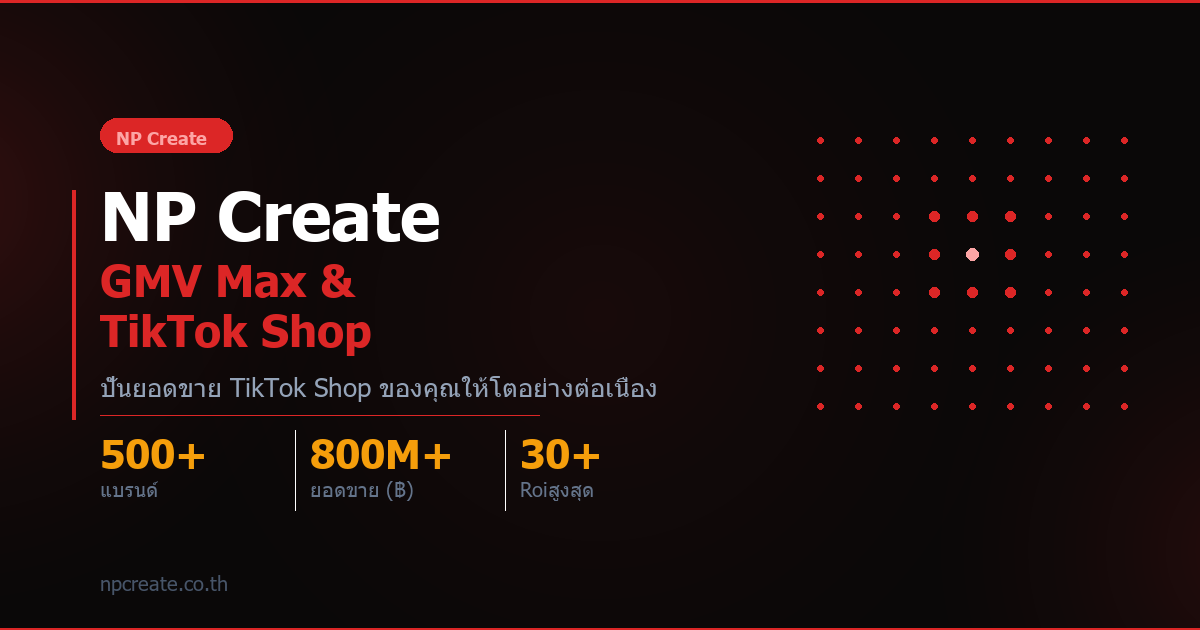
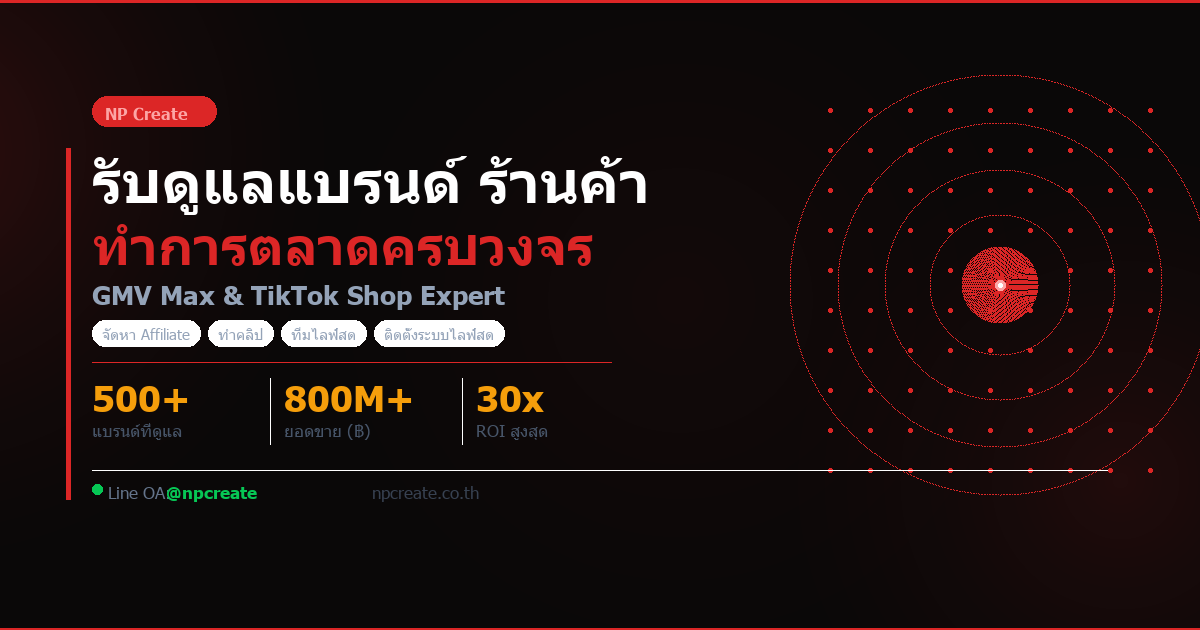
อัปเดต og-image: เพิ่ม service pills, Line OA, จัดวาง layout ใหม่

diff --git a/scripts/gen_og_image.py b/scripts/gen_og_image.py
@@ -17,19 +17,21 @@ def rgba(h, a=255):
 img = Image.new("RGBA", (W, H), rgb("#0A0808"))
 draw = ImageDraw.Draw(img, "RGBA")
 
-# ── Fonts (Tahoma supports Thai) ──────────────────────────────────────────────
 BD  = "C:/Windows/Fonts/tahomabd.ttf"
 REG = "C:/Windows/Fonts/tahoma.ttf"
 
-f_hero   = ImageFont.truetype(BD,  68)
-f_sub    = ImageFont.truetype(BD,  44)
-f_body   = ImageFont.truetype(REG, 26)
-f_stat_v = ImageFont.truetype(BD,  40)
-f_stat_l = ImageFont.truetype(REG, 20)
-f_badge  = ImageFont.truetype(BD,  18)
-f_domain = ImageFont.truetype(REG, 20)
+f_hero   = ImageFont.truetype(BD,  58)
+f_hero2  = ImageFont.truetype(BD,  52)
+f_tag    = ImageFont.truetype(BD,  26)
+f_body   = ImageFont.truetype(REG, 21)
+f_stat_v = ImageFont.truetype(BD,  36)
+f_stat_l = ImageFont.truetype(REG, 17)
+f_badge  = ImageFont.truetype(BD,  16)
+f_pill   = ImageFont.truetype(REG, 15)
+f_line   = ImageFont.truetype(BD,  17)
+f_domain = ImageFont.truetype(REG, 17)
 
-# ── Background radial orbs ────────────────────────────────────────────────────
+# ── Background orbs ───────────────────────────────────────────────────────────
 def orb(cx, cy, r, color_hex, peak=55):
     for px in range(max(0, cx-r), min(W, cx+r)):
         for py in range(max(0, cy-r), min(H, cy+r)):
@@ -46,83 +48,126 @@ def orb(cx, cy, r, color_hex, peak=55):
                     255
                 ))
 
-orb(-60,  200, 500, "#DC2626", 50)
-orb(1260, 550, 420, "#DC2626", 35)
-orb(600,  315, 600, "#DC2626", 18)
+orb(-80,  150, 510, "#DC2626", 46)
+orb(1120, 480, 440, "#DC2626", 28)
+orb(680,  300, 560, "#DC2626", 12)
 
 draw = ImageDraw.Draw(img, "RGBA")
 
 # ── Top & bottom gradient lines ───────────────────────────────────────────────
 for x in range(W):
-    g = math.exp(-((x/W - 0.5)**2) / (2*0.1**2))
-    draw.line([(x, 0), (x, 2)],   fill=(220, 38, 38, int(160*g)))
-    draw.line([(x, H-2), (x, H)], fill=(220, 38, 38, int(100*g)))
+    g = math.exp(-((x/W - 0.5)**2) / (2*0.12**2))
+    draw.line([(x, 0), (x, 2)],   fill=(220, 38, 38, int(180*g)))
+    draw.line([(x, H-2), (x, H)], fill=(220, 38, 38, int(90*g)))
 
-# ── Left red accent bar ───────────────────────────────────────────────────────
-for y in range(190, 420):
-    t = (y-190)/230
-    a = int(220 * math.sin(math.pi*t))
-    draw.line([(72, y), (75, y)], fill=(220, 38, 38, a))
+# ── Right decoration: rings + dot grid ───────────────────────────────────────
+cx_r, cy_r = 1000, 285
 
-# ── Right decorative pattern (dots, not big blocks) ──────────────────────────
-dot_x0, dot_y0 = 820, 140
-cols, rows, gap = 9, 8, 38
-for r in range(rows):
-    for c in range(cols):
-        cx = dot_x0 + c*gap
-        cy = dot_y0 + r*gap
-        dc = math.sqrt((c - cols/2)**2 + (r - rows/2)**2)
-        a = max(0, int(80 - dc*10))
-        if a > 0:
-            draw.ellipse([cx-3, cy-3, cx+3, cy+3], fill=rgba("#DC2626", a))
+for ring_r, alpha in [(210, 14), (162, 20), (115, 30), (70, 44)]:
+    steps = max(180, ring_r * 4)
+    for i in range(steps):
+        rad = 2 * math.pi * i / steps
+        px = int(cx_r + ring_r * math.cos(rad))
+        py = int(cy_r + ring_r * math.sin(rad))
+        if 0 <= px < W and 0 <= py < H:
+            draw.point((px, py), fill=(220, 38, 38, alpha))
 
-# Highlight dot cluster in center-ish
-for r in range(2, 5):
-    for c in range(3, 6):
-        cx = dot_x0 + c*gap
-        cy = dot_y0 + r*gap
-        draw.ellipse([cx-5, cy-5, cx+5, cy+5], fill=rgba("#DC2626", 140))
-draw.ellipse([dot_x0+4*gap-6, dot_y0+3*gap-6, dot_x0+4*gap+6, dot_y0+3*gap+6],
-             fill=rgba("#FCA5A5", 200))
+for ring_r in range(38, 0, -1):
+    a = int(80 * (1 - ring_r/38)**1.5)
+    steps = max(60, ring_r * 5)
+    for i in range(steps):
+        rad = 2 * math.pi * i / steps
+        px = int(cx_r + ring_r * math.cos(rad))
+        py = int(cy_r + ring_r * math.sin(rad))
+        if 0 <= px < W and 0 <= py < H:
+            draw.point((px, py), fill=(220, 38, 38, a))
+
+for r in range(10):
+    for c in range(9):
+        px = 830 + c * 40
+        py = 110 + r * 40
+        dc = math.sqrt((px - cx_r)**2 + (py - cy_r)**2)
+        a = max(0, int(60 - dc * 0.1))
+        if a > 4:
+            draw.ellipse([px-2, py-2, px+2, py+2], fill=rgba("#DC2626", a))
+
+draw.ellipse([cx_r-5, cy_r-5, cx_r+5, cy_r+5], fill=rgba("#FCA5A5", 200))
+draw.ellipse([cx_r-2, cy_r-2, cx_r+2, cy_r+2], fill=rgba("#FFFFFF", 255))
+
+# ── Left accent bar ───────────────────────────────────────────────────────────
+for y in range(148, 500):
+    t = (y - 148) / 352
+    a = int(220 * math.sin(math.pi * t))
+    draw.line([(66, y), (70, y)], fill=(220, 38, 38, a))
+
+TX = 92
 
 # ── Badge ─────────────────────────────────────────────────────────────────────
-bx, by, bw, bh = 100, 118, 132, 34
-draw.rounded_rectangle([bx, by, bx+bw, by+bh], radius=17,
-                       fill=rgba("#DC2626", 45), outline=rgba("#DC2626", 110), width=1)
-draw.text((bx+16, by+8), "NP Create", font=f_badge, fill=rgba("#FCA5A5"))
+bx, by = TX, 96
+draw.rounded_rectangle([bx, by, bx+124, by+30], radius=15,
+    fill=rgba("#DC2626", 40), outline=rgba("#DC2626", 110), width=1)
+draw.text((bx+13, by+7), "NP Create", font=f_badge, fill=rgba("#FCA5A5"))
 
-# ── Hero text ─────────────────────────────────────────────────────────────────
-TX = 100
+# ── Headings ──────────────────────────────────────────────────────────────────
+draw.text((TX, 144), "รับดูแลแบรนด์ ร้านค้า", font=f_hero, fill=rgb("#FFFFFF"))
+draw.text((TX, 212), "ทำการตลาดครบวงจร", font=f_hero2, fill=rgb("#DC2626"))
 
-# Line 1: white
-draw.text((TX, 172), "NP Create", font=f_hero, fill=rgb("#FFFFFF"))
+# ── Sub label ────────────────────────────────────────────────────────────────
+draw.text((TX, 278), "GMV Max & TikTok Shop Expert", font=f_tag, fill=rgba("#94A3B8"))
 
-# Line 2: red (smaller to fit)
-draw.text((TX, 252), "GMV Max &", font=f_sub, fill=rgb("#DC2626"))
-draw.text((TX, 302), "TikTok Shop", font=f_sub, fill=rgb("#DC2626"))
+# ── Service pills row ─────────────────────────────────────────────────────────
+services = ["จัดหา Affiliate", "ทำคลิป", "ทีมไลฟ์สด", "ติดตั้งระบบไลฟ์สด"]
+pill_x = TX
+pill_y = 320
+pill_h = 26
+pill_gap = 8
 
-# Subtext
-draw.text((TX, 370), "ปั้นยอดขาย TikTok Shop ของคุณให้โตอย่างต่อเนื่อง", font=f_body, fill=rgba("#94A3B8"))
+for svc in services:
+    # measure text width approx
+    bbox = f_pill.getbbox(svc)
+    tw = bbox[2] - bbox[0]
+    pw = tw + 20
+
+    draw.rounded_rectangle(
+        [pill_x, pill_y, pill_x + pw, pill_y + pill_h],
+        radius=13,
+        fill=rgba("#FFFFFF", 8),
+        outline=rgba("#FFFFFF", 20),
+        width=1,
+    )
+    draw.text((pill_x + 10, pill_y + 5), svc, font=f_pill, fill=rgba("#94A3B8"))
+    pill_x += pw + pill_gap
 
 # ── Divider ───────────────────────────────────────────────────────────────────
-for x in range(TX, TX+440):
-    t = (x-TX)/440
-    a = int(100 * (1 - t))
-    draw.point((x, 415), fill=(220, 38, 38, a))
+for x in range(TX, TX + 520):
+    t = (x - TX) / 520
+    a = int(80 * (1 - t**1.5))
+    draw.point((x, 362), fill=(220, 38, 38, a))
 
 # ── Stats ─────────────────────────────────────────────────────────────────────
-stats = [("500+", "แบรนด์"), ("800M+", "ยอดขาย (฿)"), ("30+", "Roiสูงสุด")]
+stats = [("500+", "แบรนด์ที่ดูแล"), ("800M+", "ยอดขาย (฿)"), ("30x", "ROI สูงสุด")]
 sx = TX
-for val, lbl in stats:
-    draw.text((sx, 428), val, font=f_stat_v, fill=rgb("#F59E0B"))
-    draw.text((sx, 476), lbl, font=f_stat_l, fill=rgba("#64748B"))
-    # separator
-    if val != stats[-1][0]:
-        draw.line([(sx+195, 430), (sx+195, 510)], fill=rgba("#FFFFFF", 15), width=1)
-    sx += 210
+for i, (val, lbl) in enumerate(stats):
+    draw.text((sx, 375), val, font=f_stat_v, fill=rgb("#F59E0B"))
+    draw.text((sx, 419), lbl, font=f_stat_l, fill=rgba("#475569"))
+    if i < len(stats) - 1:
+        draw.line([(sx + 178, 378), (sx + 178, 444)], fill=rgba("#FFFFFF", 10), width=1)
+    sx += 192
 
-# ── Domain ────────────────────────────────────────────────────────────────────
-draw.text((TX, 570), "npcreate.co.th", font=f_domain, fill=rgba("#475569"))
+# ── Bottom bar ────────────────────────────────────────────────────────────────
+for x in range(TX, W - TX):
+    t = (x - TX) / (W - TX * 2)
+    a = int(18 * math.sin(math.pi * t))
+    draw.point((x, 470), fill=(255, 255, 255, a))
+
+# LINE OA (green)
+line_x = TX
+draw.ellipse([line_x, 484, line_x+10, 494], fill=rgba("#06C755", 220))
+draw.text((line_x + 16, 481), "Line OA:", font=f_domain, fill=rgba("#64748B"))
+draw.text((line_x + 74, 481), "@npcreate", font=f_line, fill=rgba("#06C755", 210))
+
+# Domain (right-aligned bottom)
+draw.text((TX + 280, 481), "npcreate.co.th", font=f_domain, fill=rgba("#374151"))
 
 # ── Save ──────────────────────────────────────────────────────────────────────
 img.convert("RGB").save(OUT, "PNG", optimize=True)
